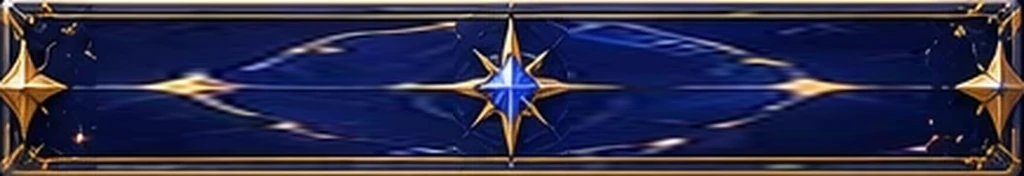
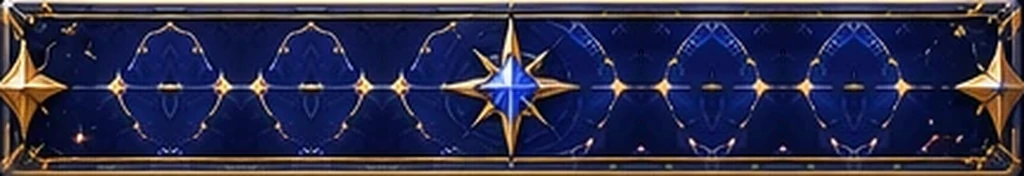
요트 히어로즈 v0.30.1: 마왕성 트레이 보라·검정 테마 · 주사위 함 바닥 자연스럽게
- 마왕성: 시안의 붉은 불꽃을 보랏빛으로 (색상만 돌림), 테두리 검정 · 장식 보라 발광
- 주사위 함 바닥: 사이 무늬를 한 조각 길게 늘이던 것을 원래 무늬를 좌우로 번갈아 뒤집어 이어 붙이게
  심해 · 용암은 같은 트레이 바닥의 물결 · 현무암 질감을 띠로 깔고 테두리선 · 끝 · 가운데 장식만 얹음

Claude-Session: https://claude.ai/code/session_014gChBYzVF9cfUwsBghVSK5

diff --git a/dice-heroes/skins.js b/dice-heroes/skins.js
@@ -21,7 +21,7 @@ export const TRAY_SKINS = [
   { id: 'marble', name: '클래식', desc: '상아빛 대리석 · 빛나는 황금 나침반', tier: 'special' },
   { id: 'royal', name: '왕실', desc: '진홍 벨벳에 황금 왕관', tier: 'special' },
   { id: 'deepsea', name: '심해', desc: '일렁이는 물빛 · 산호와 별 나침반', tier: 'special' },
-  { id: 'demon', name: '마왕성', desc: '검은 돌바닥에 타오르는 삼지창 문장', tier: 'special' },
+  { id: 'demon', name: '마왕성', desc: '검은 돌바닥에 보랏빛으로 타오르는 삼지창 문장', tier: 'special' },
   { id: 'sakura', name: '벚꽃', desc: '연분홍 바닥에 피어난 벚꽃 문양', tier: 'special' },
   { id: 'lava', name: '용암', desc: '갈라진 현무암 사이로 끓는 용암', tier: 'special' },
   { id: 'starry', name: '은하', desc: '밤하늘 초승달 · 반짝이는 별자리', tier: 'special' },
@@ -367,7 +367,7 @@ const IMAGE_TRAY = {
   marble: { rail: 0xE9DFCB, trim: 0xD4A443, trimEnv: true, glow: 0.3 },
   royal: { rail: 0x7E1222, trim: 0xFFC83D, trimEnv: true, glow: 0.35 },
   deepsea: { rail: 0x1E4A52, trim: 0xD8B45A, trimEnv: true, glow: 0.55 },
-  demon: { rail: 0x231417, trim: 0xFF3B22, trimGlow: true, glow: 0.9 },
+  demon: { rail: 0x15101C, trim: 0xB36BFF, trimGlow: true, glow: 0.9 },   // 보라 · 검정 테마
   sakura: { rail: 0xA8744A, trim: 0xF5A8C0, trimEnv: true, glow: 0.35 },
   lava: { rail: 0x2B2422, trim: 0xFF7A1A, trimGlow: true, glow: 1.1 },
   starry: { rail: 0x161C52, trim: 0xE6C35C, trimEnv: true, glow: 0.8 },

diff --git a/dice-heroes/config.js b/dice-heroes/config.js
@@ -3,6 +3,6 @@ export const GAME = {
   name: '요트 히어로즈',
   en: 'YACHT HEROES',
   studio: 'HAHAHOHO COMPANY',
-  version: '0.30.0',
+  version: '0.30.1',
   year: 2026,
 };

diff --git a/dice-heroes/tools/make_trays_from_sheet.py b/dice-heroes/tools/make_trays_from_sheet.py
@@ -8,10 +8,11 @@
   바닥·발광: 그림 전체를 가로로 늘린 위에, 가운데 문양만 원래 비율로 다시 얹는다 (문양이 납작해지지 않게, 둘레는 부드럽게 섞음)
   함 바닥:   양 끝 장식과 가운데 장식은 그대로 두고 그 사이 테두리만 늘린다 (11 : 1.9)
 시트의 CLASSIC 은 게임의 '기본'(초록 펠트)과 따로 '클래식(marble)' 스킨이 된다.
+마왕성은 시안의 붉은 색을 보라 · 검정 테마로 돌린다 (RECOLOR).
 """
 import os
 import numpy as np
-from PIL import Image, ImageDraw, ImageFilter
+from PIL import Image, ImageDraw, ImageFilter, ImageOps
 
 HERE = os.path.dirname(os.path.abspath(__file__))
 SHEET = os.path.join(HERE, 'dice-src', 'tray-sheet-v2.webp')
@@ -26,7 +27,7 @@ FW, FH = 800, 512          # 바닥 (10 : 6.4)
 BW, BH = 1024, 176         # 함 바닥 (11 : 1.9)
 EMBLEM = 0.27              # 가운데 문양 반지름 (한 변 대비)
 # 목록 미리보기 테두리 색 (skins.js TRAY_STYLE 의 rail · trim 과 같게)
-FRAME = {'marble': ('#E9DFCB', '#D4A443'), 'royal': ('#7E1222', '#FFC83D'), 'deepsea': ('#1E4A52', '#D8B45A'), 'demon': ('#231417', '#FF3B22'),
+FRAME = {'marble': ('#E9DFCB', '#D4A443'), 'royal': ('#7E1222', '#FFC83D'), 'deepsea': ('#1E4A52', '#D8B45A'), 'demon': ('#15101C', '#B36BFF'),
          'sakura': ('#A8744A', '#F5A8C0'), 'lava': ('#2B2422', '#FF7A1A'), 'starry': ('#161C52', '#E6C35C')}
 
 
@@ -41,18 +42,86 @@ def floor_fit(sq):
     return base.filter(ImageFilter.UnsharpMask(radius=1.2, percent=50, threshold=2))
 
 
-def box_fit(strip):
+# 함 바닥 사이 무늬 잇는 법: 'mirror' 좌우로 번갈아 뒤집기 (테두리·꽃 장식이 대칭이라 자연스럽다)
+#   'band' (y 위치) 같은 트레이 바닥에서 띠를 떼어 깔고, 위·아래 테두리선과 끝·가운데 장식만 시안에서 얹는다
+#          (돌·물결처럼 불규칙한 무늬는 작은 조각을 되풀이하면 반복이 티 난다)
+BOX_JOIN = {'deepsea': ('band', 0.70), 'lava': ('band', 0.08)}
+
+
+def box_band(strip, floor, yf, edge=0.085, feather=34):
     s = strip.resize((round(strip.width * BH / strip.height), BH), Image.LANCZOS)
     W = s.width
-    cut = [0, 0.22, 0.37, 0.63, 0.78, 1.0]                          # 끝 장식 | 늘림 | 가운데 장식 | 늘림 | 끝 장식
+    bh = round(FW * BH / BW)                                   # 바닥에서 떼어 낼 띠 높이 (가로 800 → 1024 비율)
+    y0 = min(FH - bh, max(0, round(yf * FH)))
+    out = floor.crop((0, y0, FW, y0 + bh)).resize((BW, BH), Image.LANCZOS)
+    e = round(BH * edge)                                       # 위·아래 테두리선 (가로로 늘려도 선이라 자연스럽다)
+    for y in (0, BH - e):
+        band = s.crop((round(W * 0.3), y, round(W * 0.7), y + e)).resize((BW, e), Image.LANCZOS)
+        m = Image.linear_gradient('L').resize((BW, e))
+        if y == 0: m = ImageOps.flip(m)
+        out.paste(band, (0, y), m.point(lambda v: min(255, v * 2)))
+    def put(part, x, left_soft, right_soft):
+        m = Image.new('L', part.size, 255)
+        g = Image.linear_gradient('L').rotate(90).resize((feather, BH))
+        if left_soft: m.paste(g, (0, 0))
+        if right_soft: m.paste(ImageOps.mirror(g), (part.width - feather, 0))
+        out.paste(part, (x, 0), m)
+    L = s.crop((0, 0, round(W * 0.22), BH)); R = s.crop((round(W * 0.78), 0, W, BH)); C = s.crop((round(W * 0.37), 0, round(W * 0.63), BH))
+    put(L, 0, False, True); put(R, BW - R.width, True, False); put(C, (BW - C.width) // 2, True, True)
+    return out
+
+
+def box_fit(strip, join='mirror'):
+    """끝 장식 · 가운데 장식은 그대로, 그 사이는 원래 무늬 조각을 좌우로 번갈아 뒤집어 이어 붙인다.
+    (예전처럼 한 조각을 길게 늘이면 무늬가 가로로 뭉개져 보였다)
+    조각 수를 홀수로 맞춰 양쪽 끝이 원래 방향이 되게 해서 이웃 장식과 이음매가 맞는다."""
+    s = strip.resize((round(strip.width * BH / strip.height), BH), Image.LANCZOS)
+    W = s.width
+    cut = [0, 0.22, 0.37, 0.63, 0.78, 1.0]                          # 끝 장식 | 사이 | 가운데 장식 | 사이 | 끝 장식
     parts = [s.crop((round(cut[i] * W), 0, round(cut[i + 1] * W), BH)) for i in range(5)]
     fixed = parts[0].width + parts[2].width + parts[4].width
-    fill = (BW - fixed) / 2
-    parts[1] = parts[1].resize((round(fill), BH), Image.LANCZOS)
-    parts[3] = parts[3].resize((BW - fixed - parts[1].width, BH), Image.LANCZOS)
+    fills = [(BW - fixed) // 2, BW - fixed - (BW - fixed) // 2]
+    def tile_blend(seg, F, ov=24):
+        # 조각을 겹쳐(ov px) 이어 붙이고 겹친 곳은 서서히 섞는다. 첫 조각은 왼쪽 이웃과, 마지막은 오른쪽 이웃과 이어지게
+        out = Image.new('RGB', (F, BH)); step = seg.width - ov
+        n = max(1, -(-(F - ov) // step))
+        xs = [round(k * (F - seg.width) / max(1, n - 1)) for k in range(n)] if n > 1 else [0]
+        ramp = Image.linear_gradient('L').rotate(90).resize((ov, BH))   # 왼쪽 0 → 오른쪽 255
+        for k, x in enumerate(xs):
+            piece = seg if x + seg.width <= F else seg.crop((0, 0, F - x, BH))
+            if k == 0: out.paste(piece, (x, 0)); continue
+            m = Image.new('L', piece.size, 255); m.paste(ramp.crop((0, 0, min(ov, piece.width), BH)), (0, 0))
+            out.paste(piece, (x, 0), m)
+        return out
+    def tile(seg, F):
+        if join == 'blend': return tile_blend(seg, F)
+        n = max(1, round(F / seg.width))
+        if n % 2 == 0: n += 1 if F / seg.width > n else -1
+        n = max(1, n)
+        w = F / n
+        out = Image.new('RGB', (F, BH)); x = 0
+        for k in range(n):
+            ww = round(w * (k + 1)) - round(w * k)
+            piece = seg.resize((ww, BH), Image.LANCZOS)
+            out.paste(piece if k % 2 == 0 else ImageOps.mirror(piece), (x, 0)); x += ww
+        return out
+    parts[1] = tile(parts[1], fills[0])
+    parts[3] = tile(parts[3], fills[1])
     out = Image.new('RGB', (BW, BH)); x = 0
     for p in parts: out.paste(p, (x, 0)); x += p.width
     return out
+
+
+def recolor(im, shift, sat=1.0):
+    """색상만 돌린다 (밝기·무늬는 그대로) — 마왕성: 붉은 불꽃 → 보랏빛"""
+    h, s_, v = im.convert('HSV').split()
+    h = h.point(lambda x: (x + shift) % 256)
+    if sat != 1.0: s_ = s_.point(lambda x: min(255, int(x * sat)))
+    return Image.merge('HSV', (h, s_, v)).convert('RGB')
+
+
+# 시안에서 색만 바꿀 스킨: (색상 이동 0~255, 채도 배율)
+RECOLOR = {'demon': (192, 0.9)}
 
 
 def thumb(floor, id_):
@@ -70,7 +139,10 @@ def main():
         d = os.path.join(OUT, id_); os.makedirs(d, exist_ok=True)
         x, y, s = FLOOR[i]; fl = floor_fit(sheet.crop((x, y, x + s, y + s)))
         x, y, s = GLOW[i]; gl = floor_fit(sheet.crop((x, y, x + s, y + s)))
-        bx = box_fit(sheet.crop(BOX[i]))
+        j = BOX_JOIN.get(id_, 'mirror')
+        bx = box_band(sheet.crop(BOX[i]), fl, j[1]) if isinstance(j, tuple) else box_fit(sheet.crop(BOX[i]), j)
+        if id_ in RECOLOR:
+            fl, gl, bx = (recolor(im, *RECOLOR[id_]) for im in (fl, gl, bx))
         fl.save(os.path.join(d, 'floor.webp'), quality=90, method=6)
         gl.save(os.path.join(d, 'glow.webp'), quality=88, method=6)
         bx.save(os.path.join(d, 'box.webp'), quality=90, method=6)
